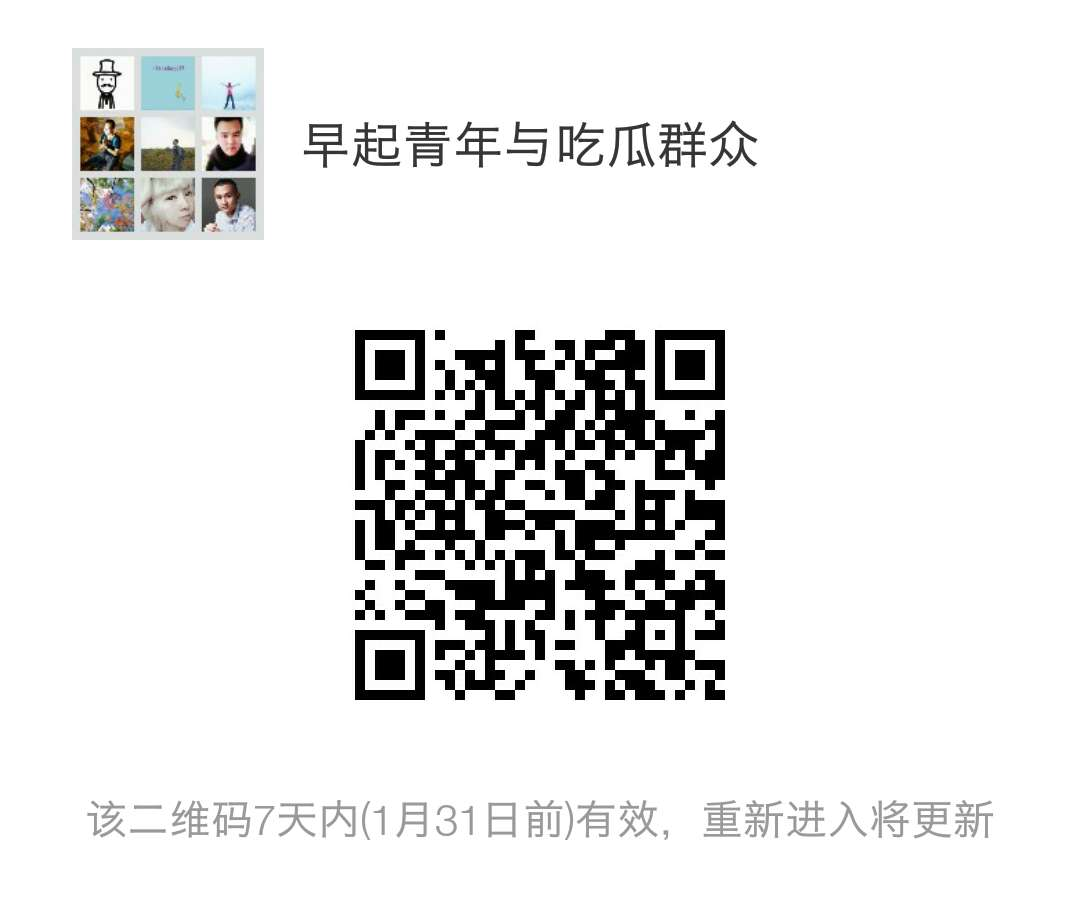
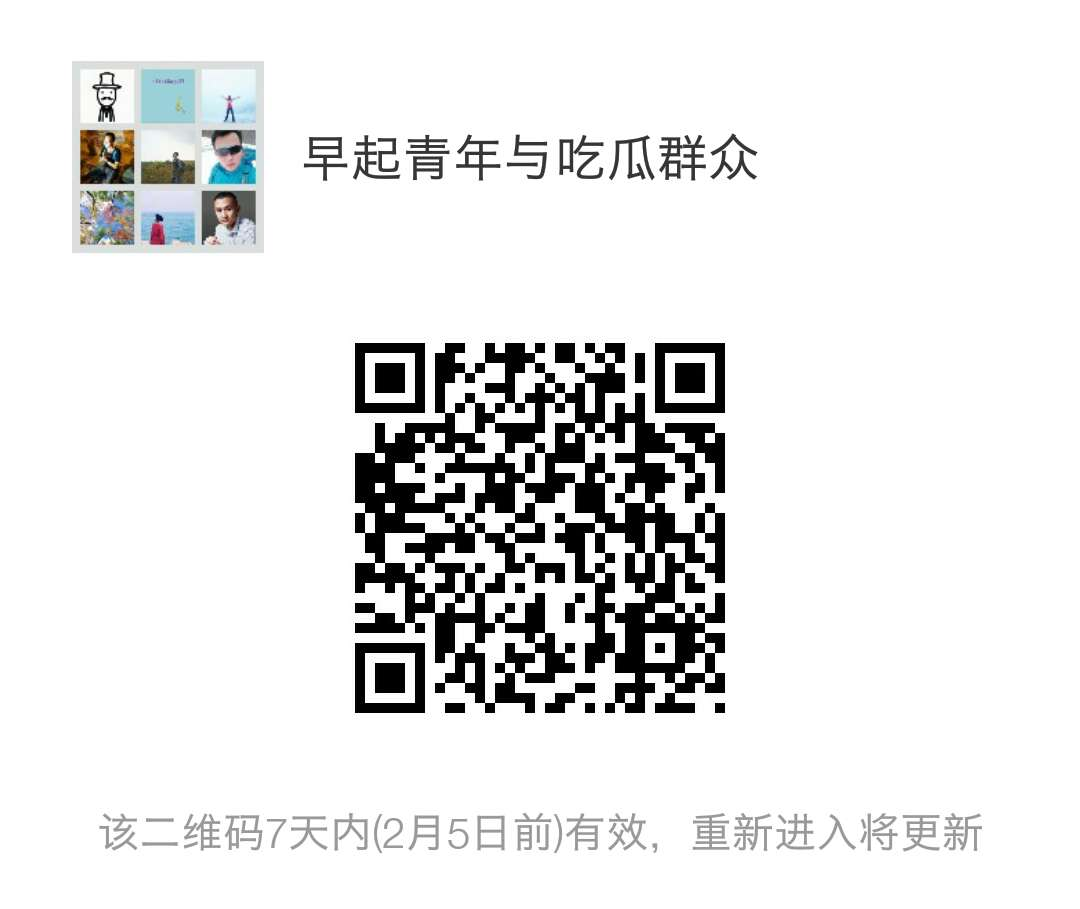
添加最新群内福利,及第四周总结

diff --git a/README.md b/README.md
@@ -21,7 +21,17 @@
 4. 每两周吃瓜组的费用会奖励给坚持打卡的小朋友。
 5. 更换组周期为一周，每周结束都可以停止早起，更换分组。
 
-## 3. Q&A
+## 3. 群内福利
+### 春节打卡送红酒
+* 2017年1月27日 - 2月2日期间，每天打卡排名总积分第一名送红酒两瓶，第二名送红酒一瓶。
+* 谢谢 运动营养品酒师`牛牛`为本活动提供奖品
+
+### 坚持早起送 无痛牙周护理
+* 2017年1月30日起，在早起组一年，送无痛牙周护理一次。
+* 谢谢 牙医`左巍`为本活动提供奖品
+
+
+## 4. Q&A
 
 
 #### 3.1 每天几点打卡有效
@@ -43,11 +53,11 @@
 > 我也不清楚会发展到多大，但可以肯定的是最终控制在不超过100人。
 
 
-## 4. 未来计划
+## 5. 未来计划
 * 群内现在有人早上打完卡，继续睡回笼觉的情况，之后可能会为避免这种情况提出一些要求。
 * 有人觉得每天只是打卡还不够，希望有每天做一些晨间小事这样的计划。之后可能会把这些计划添加到选做任务中。
 
-## 5. 每周总结
+## 6. 每周总结
 
 #### 20170108 第一周
 * 共招募 早起青年11人，吃瓜群众2人
@@ -64,7 +74,12 @@
 * 本周每天都按时打卡的人共11人，占比84.6%，比上周有大幅增长。
 * 早起青年们共发出红包 2次，累计40元。其它原因发红包超过100元。
 
-## 6. 如何加入
+#### 20170129 第四周
+* 早起青年16人（增加3人），吃瓜群众8人（增加3人）
+* 本周每天都按时打卡的人共11人，占比68.75%。
+* 早起青年们共发出红包 7次，累计140元。
+
+## 7. 如何加入
 ![](http://wangwanggame.com/morning/weixin.jpeg)
 
 
